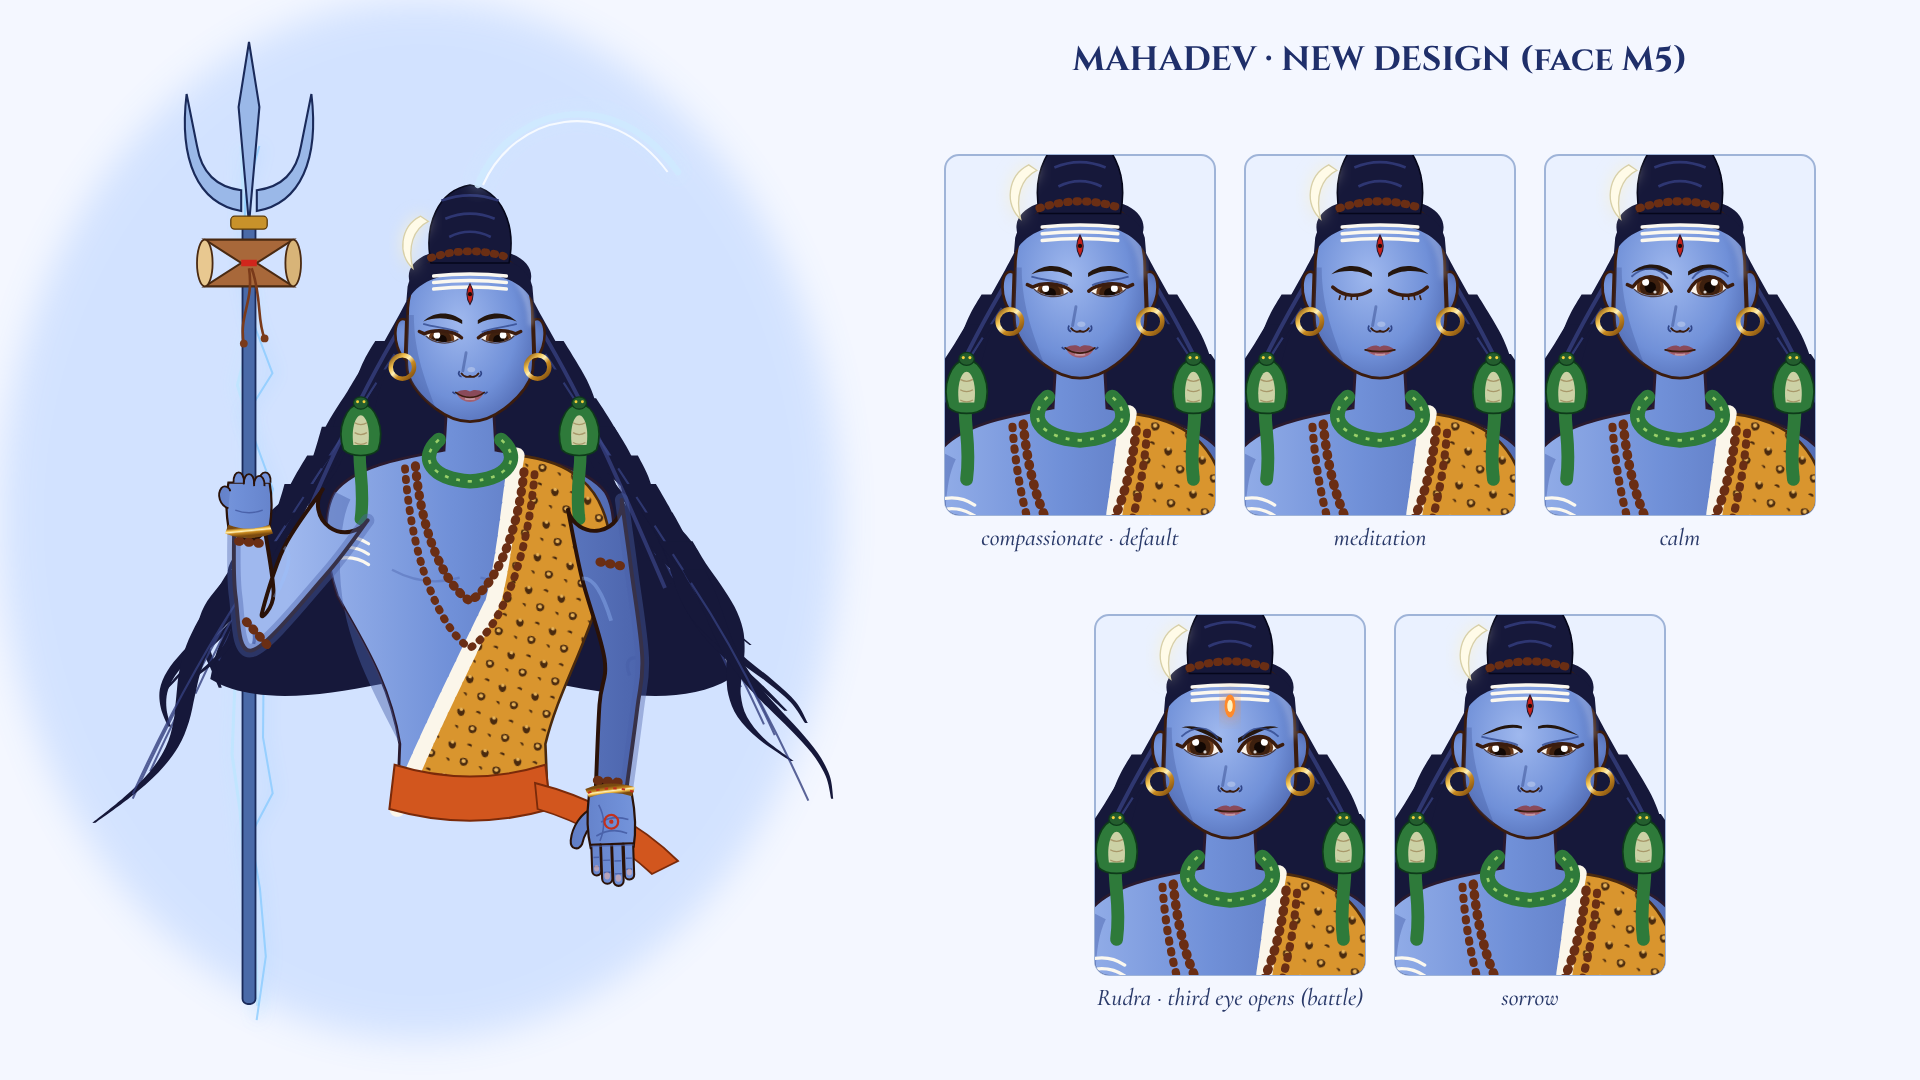
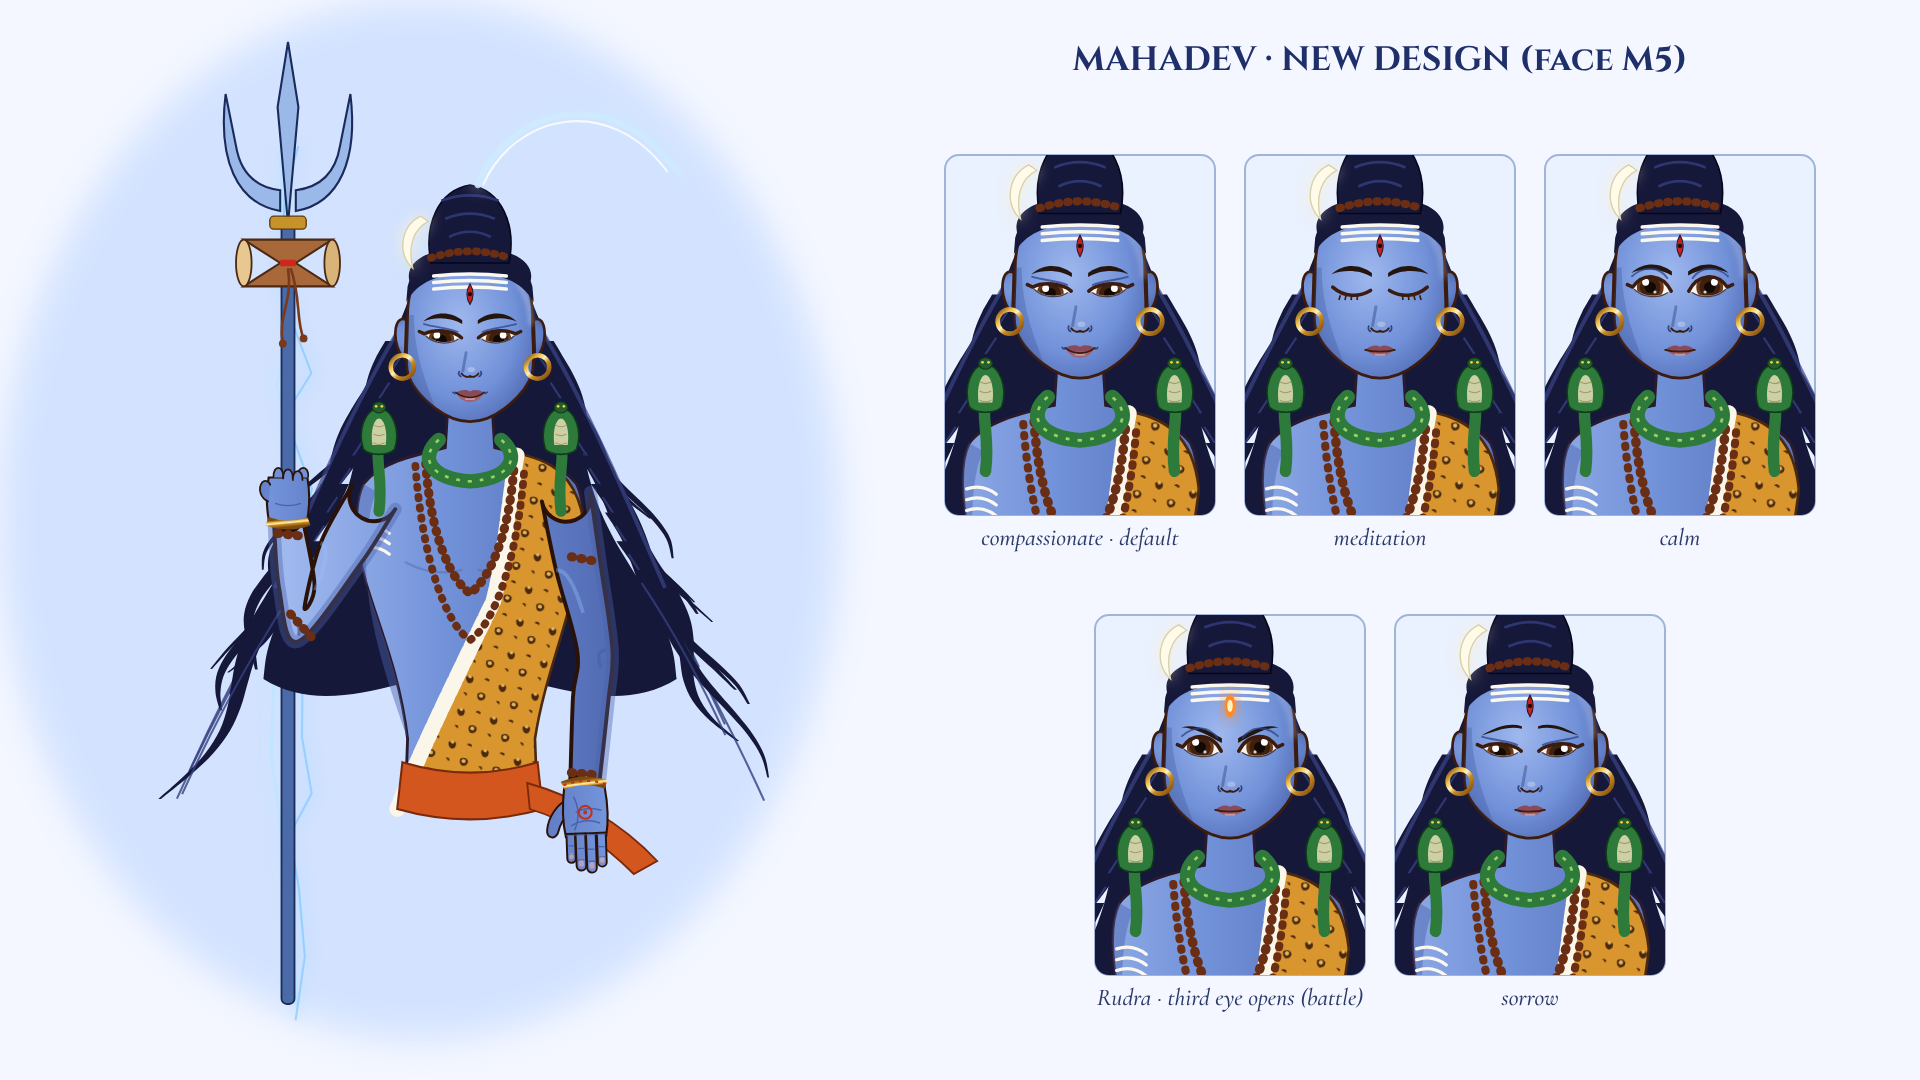
Mahadev: normal fit proportions (shoulders ~2x head width), slimmer arms, narrower hair mass
Claude-Session: https://claude.ai/code/session_01X3ArEdZK7W9b78YVvUKCgo

diff --git a/devotional-studio/style-frames/mahadev-v2.js b/devotional-studio/style-frames/mahadev-v2.js
@@ -16,14 +16,14 @@ function lock(x0, y0, len, dir, w, wob, seed, col) {
 function hairBack(t = 0) {
   const r = A.rng(17);
   // wavy outline of the whole mass (behind head and shoulders, flowing outward)
-  const edge = (sx) => { const pts = []; for (let i = 0; i <= 14; i++) { const u = i / 14; pts.push([sx * (44 + u * 150 + Math.sin(u * 9 + t) * 14 * u), 30 + u * 300]); } return pts; };
+  const edge = (sx) => { const pts = []; for (let i = 0; i <= 14; i++) { const u = i / 14; pts.push([sx * (44 + u * 110 + Math.sin(u * 9 + t) * 12 * u), 30 + u * 300]); } return pts; };
   const L = edge(-1), R = edge(1);
-  const mass = `<path d="M0 -2 C -40 -2 -54 14 ${L[0][0]} ${L[0][1]}${A.crPath(L)} C -150 360 -60 330 0 320 C 60 330 150 360 ${R[14][0]} ${R[14][1]}${A.crPath([...R].reverse())} C 54 14 40 -2 0 -2Z" fill="#16183a"/>`;
+  const mass = `<path d="M0 -2 C -40 -2 -54 14 ${L[0][0]} ${L[0][1]}${A.crPath(L)} C -112 360 -50 330 0 320 C 50 330 112 360 ${R[14][0]} ${R[14][1]}${A.crPath([...R].reverse())} C 54 14 40 -2 0 -2Z" fill="#16183a"/>`;
   let locks = '';
   for (let i = 0; i < 18; i++) {
     const side = i % 2 ? 1 : -1, k = Math.floor(i / 2);
-    locks += lock(side * (60 + k * 14), 70 + k * 22, 120 + r() * 90, side, 8 + r() * 6, 18 + r() * 14, r() * 6 + t, '#16183a');
-    const x0 = side * (58 + k * 14), y0 = 80 + k * 22, len = 110 + r() * 80;
+    locks += lock(side * (54 + k * 10), 70 + k * 22, 110 + r() * 80, side, 7 + r() * 5, 14 + r() * 10, r() * 6 + t, '#16183a');
+    const x0 = side * (52 + k * 10), y0 = 80 + k * 22, len = 110 + r() * 80;
     locks += `<path d="M${x0} ${y0} q ${side * len * .3} ${len * .45} ${side * len * .55} ${len}" stroke="#34407e" stroke-width="1.6" fill="none" opacity=".8"/>`;
   }
   const shine = [-1, 1].map(sx => `<path d="M${sx * 54} 60 C ${sx * 90} 120 ${sx * 120} 190 ${sx * 150} 260" stroke="#3a4488" stroke-width="3" fill="none" opacity=".7"/>`).join('');
@@ -72,25 +72,25 @@ function mahadevUpper(o = {}) {
     ? `<ellipse cx="0" cy="${by - 17}" rx="4" ry="8.5" fill="#ff8a2a" filter="url(#glow)"/><ellipse cx="0" cy="${by - 17}" rx="2" ry="4.6" fill="#fff3c0"/>`
     : `<path d="M0 ${by - 25} C 3 ${by - 20} 3 ${by - 14} 0 ${by - 9} C -3 ${by - 14} -3 ${by - 20} 0 ${by - 25}Z" fill="#c8201a" stroke="${INK}" stroke-width=".8"/><circle cx="0" cy="${by - 17}" r="1.6" fill="#1a0a0a"/>`;
   const tripundra = [0, 1, 2].map(k => `<path d="M-28 ${by - 31 + k * 5} Q 0 ${by - 34 + k * 5} 28 ${by - 31 + k * 5}" stroke="#fbf8f0" stroke-width="2.6" fill="none" stroke-linecap="round"/>`).join('');
-  const torso = 'M-18 120 L -20 154 C -52 160 -88 166 -104 186 C -114 202 -112 236 -102 266 C -86 296 -62 330 -54 380 L -56 430 L 56 430 L 54 380 C 62 330 86 296 102 266 C 112 236 114 202 104 186 C 88 166 52 160 20 154 L 18 120Z';
+  const torso = 'M-17 120 L -19 152 C -44 158 -70 164 -82 180 C -90 196 -88 228 -80 256 C -70 290 -54 326 -48 376 L -50 430 L 50 430 L 48 376 C 54 326 70 290 80 256 C 88 228 90 196 82 180 C 70 164 44 158 19 152 L 17 120Z';
   return `<g>
     ${hairBack(o.wind || 0)}
     <path d="${torso}" fill="${SK}" stroke="${INK}" stroke-width="2.2"/>
-    <path d="M-104 186 C -114 202 -112 236 -102 266 C -86 296 -62 330 -54 380 C -74 340 -98 300 -100 248 C -100 222 -98 204 -92 192Z" fill="${SH}" opacity=".45"/>
-    <path d="M-60 246 Q -34 260 -8 252 M60 246 Q 34 260 8 252" stroke="${SH}" stroke-width="1.8" fill="none" opacity=".4"/><path d="M0 372 Q 4 379 0 386" stroke="${SH}" stroke-width="2.4" fill="none"/>
-    ${[0, 1, 2].map(k => `<path d="M-104 ${222 + k * 8} Q -90 ${218 + k * 8} -78 ${226 + k * 8}" stroke="#fbf8f0" stroke-width="2.4" fill="none" stroke-linecap="round"/>`).join('')}
+    <path d="M-82 180 C -90 196 -88 228 -80 256 C -70 290 -54 326 -48 376 C -62 336 -78 292 -80 244 C -80 220 -78 200 -72 186Z" fill="${SH}" opacity=".45"/>
+    <path d="M-50 240 Q -28 252 -6 246 M50 240 Q 28 252 6 246" stroke="${SH}" stroke-width="1.8" fill="none" opacity=".4"/><path d="M0 372 Q 4 379 0 386" stroke="${SH}" stroke-width="2.4" fill="none"/>
+    ${[0, 1, 2].map(k => `<path d="M-84 ${214 + k * 8} Q -72 ${210 + k * 8} -62 ${218 + k * 8}" stroke="#fbf8f0" stroke-width="2.4" fill="none" stroke-linecap="round"/>`).join('')}
     <!-- tiger skin over the left shoulder, fur trim, orange sash -->
-    <path d="M36 158 C 76 162 104 180 108 226 C 100 290 70 330 58 380 L 60 430 L -56 430 C -36 380 -6 320 18 270 C 28 230 30 190 36 158Z" fill="url(#tigerPat)" stroke="#4a2a0e" stroke-width="2"/>
+    <path d="M32 156 C 62 160 84 174 88 214 C 82 276 58 322 50 376 L 52 430 L -50 430 C -36 380 -6 320 18 270 C 28 230 30 190 36 158Z" fill="url(#tigerPat)" stroke="#4a2a0e" stroke-width="2"/>
     <path d="M36 158 C 30 190 28 230 18 270 C -6 320 -36 380 -56 430" fill="none" stroke="#fbf6ea" stroke-width="12" stroke-linecap="round" stroke-dasharray="10 3"/>
-    <path d="M-58 396 Q 0 414 58 396 L 62 430 Q 0 448 -62 430Z" fill="#d2561e" stroke="#7a2a0a" stroke-width="1.6"/>
-    <path d="M50 410 C 90 420 130 440 160 470 L 140 480 C 114 456 86 440 52 430Z" fill="#d2561e" stroke="#7a2a0a" stroke-width="1.4"/>
+    <path d="M-52 394 Q 0 410 52 394 L 56 430 Q 0 446 -56 430Z" fill="#d2561e" stroke="#7a2a0a" stroke-width="1.6"/>
+    <path d="M44 410 C 80 420 116 440 144 470 L 126 480 C 102 456 78 440 46 430Z" fill="#d2561e" stroke="#7a2a0a" stroke-width="1.4"/>
     <!-- rudraksha mala -->
-    <path d="M-42 166 C -36 230 -14 262 0 270 C 14 262 36 230 42 166" fill="none" stroke="#6a2e14" stroke-width="7" stroke-dasharray="1 6.5" stroke-linecap="round"/>
-    <path d="M-50 168 C -44 250 -18 296 0 306 C 18 296 44 250 50 168" fill="none" stroke="#6a2e14" stroke-width="6" stroke-dasharray="1 7" stroke-linecap="round"/>
+    <path d="M-34 164 C -30 226 -12 256 0 264 C 12 256 30 226 34 164" fill="none" stroke="#6a2e14" stroke-width="7" stroke-dasharray="1 6.5" stroke-linecap="round"/>
+    <path d="M-42 166 C -36 246 -16 290 0 300 C 16 290 36 246 42 166" fill="none" stroke="#6a2e14" stroke-width="6" stroke-dasharray="1 7" stroke-linecap="round"/>
     <!-- neck snake + twin cobras -->
     <path d="M-24 146 C -40 160 -30 176 0 178 C 30 176 40 160 24 146" fill="none" stroke="#2e7a3a" stroke-width="11" stroke-linecap="round"/>
     <path d="M-24 146 C -40 160 -30 176 0 178 C 30 176 40 160 24 146" fill="none" stroke="#9ad06a" stroke-width="2" stroke-dasharray="3 6"/>
-    ${cobra(-84, 150, .95, false)}${cobra(84, 150, .95, true)}
+    ${cobra(-70, 150, .85, false)}${cobra(70, 150, .85, true)}
     ${F.faceP(face)}
     <path d="M-48 28 C -44 12 -28 4 0 4 C 28 4 44 12 48 28 L 49 40 C 40 24 24 18 0 18 C -24 18 -40 24 -49 40Z" fill="#16183a"/>
     <!-- top bun, rudraksha band, crescent, Ganga arc -->
@@ -106,11 +106,11 @@ function mahadevUpper(o = {}) {
 }
 
 function arms(o = {}) { // right arm raised holding the trishul; left arm across, open hand
-  const J1 = { sh: [-96, 196], el: [-164, 294], wr: [-170, 212] }, J2 = { sh: [96, 196], el: [118, 314], wr: [108, 420] };
-  return `${A.arm(J1.sh, J1.el, J1.wr, SK, SH, [42, 40, 29, 30, 23])}${rud(-172, 286, -154, 306)}${rud(-178, 224, -158, 226)}
-    ${A.arm(J2.sh, J2.el, J2.wr, SK, SH, [42, 40, 29, 30, 23])}${rud(100, 240, 122, 244)}${rud(98, 408, 120, 410)}
-    <g transform="translate(-170,212) scale(.66)">${A.holdingHand(SK, SH, -1, false)}</g>
-    <g transform="translate(108,420) rotate(178) scale(.66)">${A.openPalm(SK, SH, 1)}</g>`;
+  const J1 = { sh: [-74, 190], el: [-130, 288], wr: [-140, 206] }, J2 = { sh: [74, 190], el: [96, 308], wr: [88, 414] };
+  return `${A.arm(J1.sh, J1.el, J1.wr, SK, SH, [38, 36, 27, 28, 22])}${rud(-138, 280, -120, 300)}${rud(-148, 218, -130, 220)}
+    ${A.arm(J2.sh, J2.el, J2.wr, SK, SH, [38, 36, 27, 28, 22])}${rud(78, 236, 100, 240)}${rud(78, 402, 100, 404)}
+    <g transform="translate(-140,206) scale(.62)">${A.holdingHand(SK, SH, -1, false)}</g>
+    <g transform="translate(88,414) rotate(178) scale(.62)">${A.openPalm(SK, SH, 1)}</g>`;
 }
 
 function mahadevSheet() {
@@ -124,7 +124,7 @@ function mahadevSheet() {
     <rect width="${W}" height="${H}" fill="#f4f7ff"/>
     <ellipse cx="420" cy="520" rx="420" ry="520" fill="#5f9bff" opacity=".22" filter="url(#softGlow)"/>
     <text x="1380" y="70" text-anchor="middle" font-family="Cinzel, serif" font-weight="700" font-size="34" fill="#1f2f6a">MAHADEV · NEW DESIGN (face M5)</text>
-    <g transform="translate(470,250) scale(1.3)">${trishul(-170, 40, 1, 0)}${mahadevUpper({ id: 'hero' })}${arms()}</g>
+    <g transform="translate(470,250) scale(1.3)">${trishul(-140, 40, 1, 0)}${mahadevUpper({ id: 'hero' })}${arms()}</g>
     ${card(1080, 330, { eyes: 'lowered', mouth: 'smile' }, 1, 'compassionate · default')}
     ${card(1380, 330, { eyes: 'closed', mouth: 'soft' }, 2, 'meditation')}
     ${card(1680, 330, { eyes: 'open', mouth: 'soft' }, 3, 'calm')}
